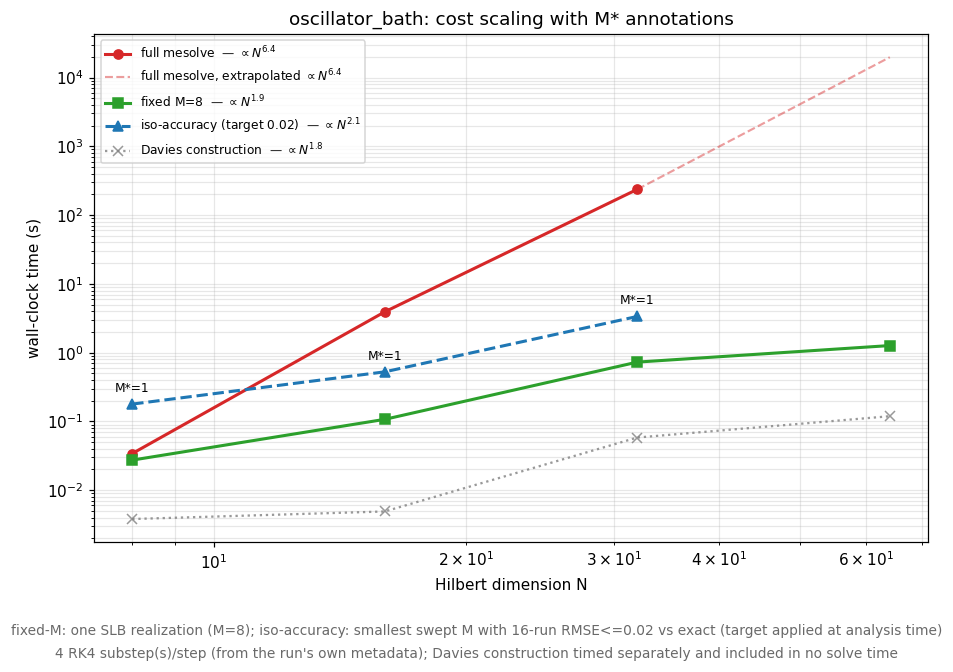
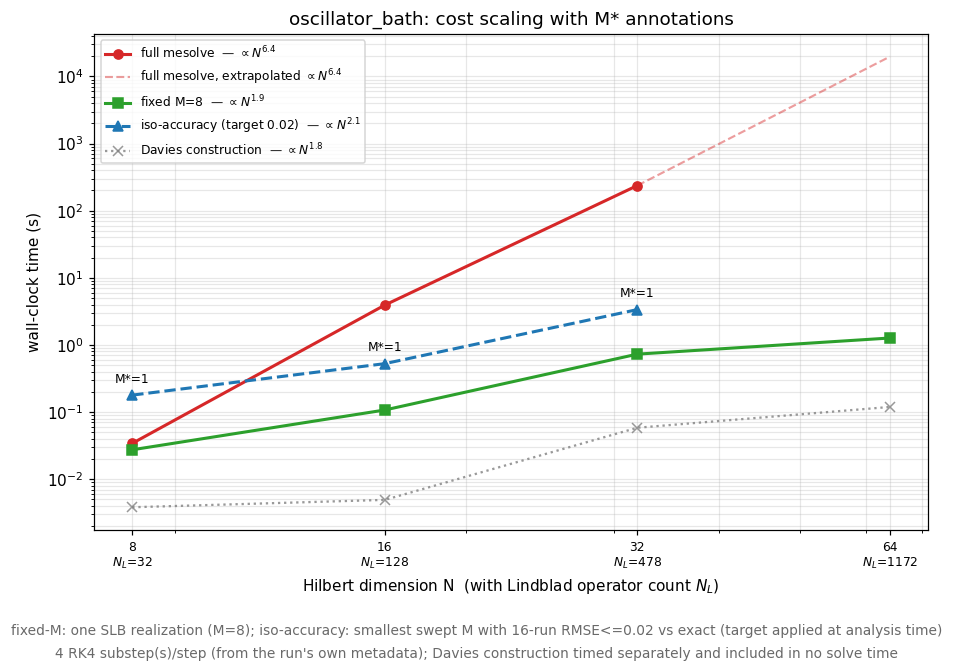
R2 figure: single panel, extrapolation guide, dual N/N_L axis; prose updated

diff --git a/benchmarks/plot_cost_scaling.py b/benchmarks/plot_cost_scaling.py
@@ -71,6 +71,7 @@ def figure(name, doc, target):
     m_rep, n_acc = meta["params"]["M_REP"], meta["params"]["N_ACC"]
     points = doc["points"]
     dims = as_array([p["dim"] for p in points])
+    n_ls = as_array([p["n_l"] for p in points])
     t_full = as_array([p["t_full"] for p in points])
     t_slb = as_array([p["t_slb_fixed"] for p in points])
     t_dav = as_array([p.get("t_davies") for p in points])
@@ -106,7 +107,14 @@ def figure(name, doc, target):
         ax.annotate(f"M*={int(ms)}", (x, y), xytext=(0, 8), textcoords="offset points", ha='center', fontsize=8)
 
     ax.set_ylabel("wall-clock time (s)")
-    ax.set_xlabel("Hilbert dimension N")
+    # ticks at the measured points, each labelled with BOTH sizes: the Hilbert
+    # dimension and the Lindblad operator count it implies -- N_L is what
+    # actually drives the full solver's cost and the bundling payoff.
+    ax.set_xticks(dims)
+    ax.set_xticklabels([f"{int(d)}\n" + rf"$N_L$={int(l)}"
+                        for d, l in zip(dims, n_ls)], fontsize=8)
+    ax.tick_params(axis="x", which="minor", labelbottom=False)
+    ax.set_xlabel("Hilbert dimension N  (with Lindblad operator count $N_L$)")
     ax.set_title(f"{name}: cost scaling with M* annotations")
     ax.legend(fontsize=8); ax.grid(True, which="both", alpha=0.3)
 
